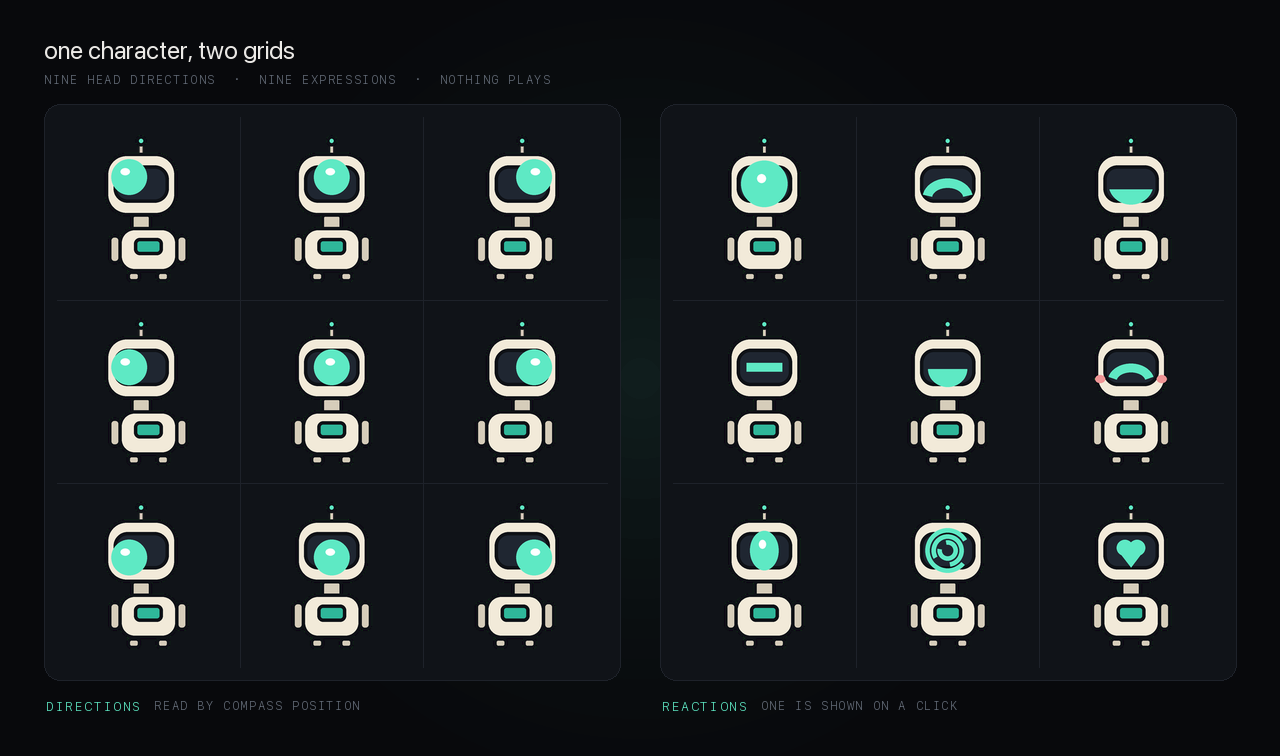
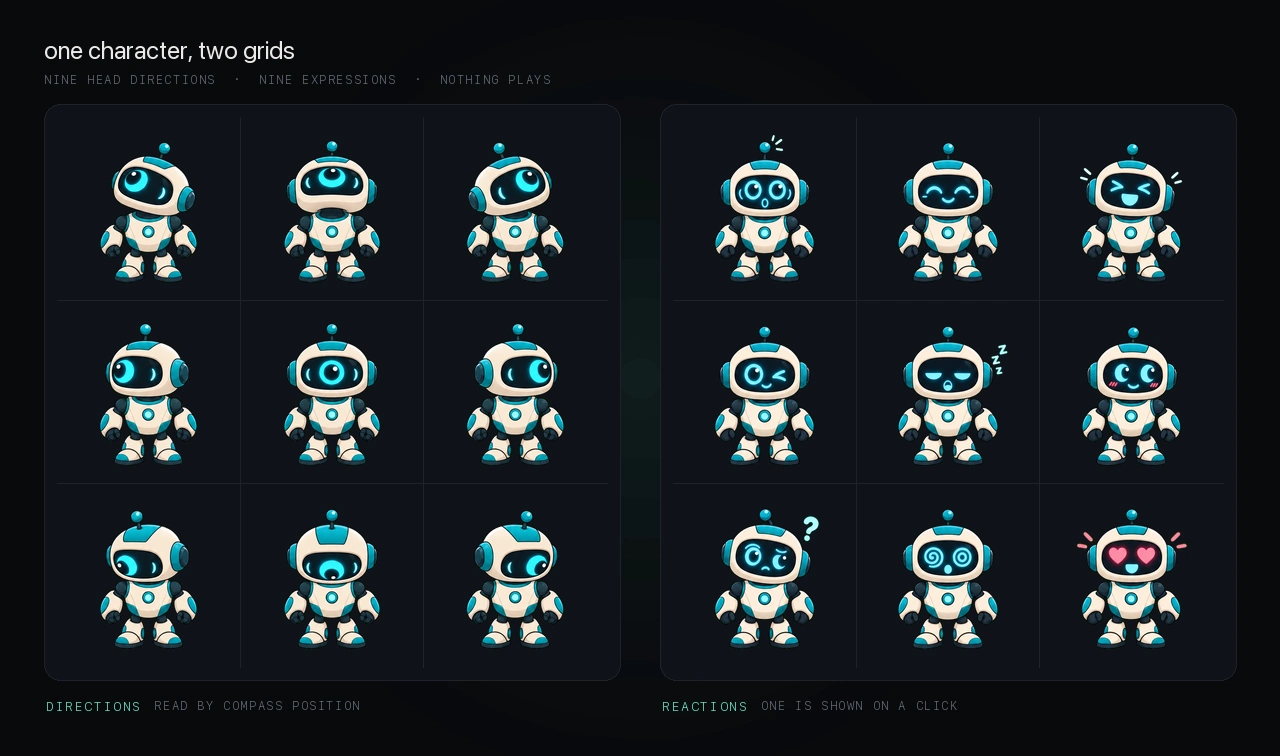
Fill the masthead with six characters the agent drew
The quota came back at 03:12 and the waiter did what it was told: ten
grids, serial, one at a time, then pose-ingest each. Five characters —
fox, cat, frog, ghost, bear — joining the robot.

Every one of them failed strict placement. The generator drifts a body
sideways across a 3x3 far more than it does across a motion loop: 13%,
16%, 38%, 39%, 45%, 52% against a 6% budget. That is the gate doing its
job rather than a defect in the art, and the numbers after the anchor
pass are the argument for it — 0.1% to 0.2%, with the characters 92-98%
consistent in height. The same robot's twelve-frame wave sheet passed
strict on the first attempt at 0.7% drift, which is the contrast worth
keeping: a loop holds still, a pose grid does not.

The README images are rebuilt from that art, and the hero's footer now
reads its measurements out of the run's own report.json rather than the
line I typed. A hardcoded 0.0% had already gone stale — the real run
measured 0.7%, and an image quoting numbers that are not its own is
worse than an image with no numbers.

poses.webp is q96 rather than lossless, reversing what I argued a few
commits ago. That reasoning — a picture of lossless sheets ought to be
lossless — is aesthetic, and it cost 182KB once the art got detailed.
Nobody samples a documentation figure with background-position. docs/ is
484KB for four images, two of them animated.

spike/demo_mascot.py is gone. It drew the placeholder robot, and the
[…]

diff --git a/spike/readme_images.py b/spike/readme_images.py
@@ -5,15 +5,32 @@ normalised frames and the pose pair are loaded back off disk after a real run,
 so an image can only ever show what the pipeline actually produced — if a
 change breaks the output, these break with it rather than papering over it.
 
-Full sequence from an empty directory:
+The art itself comes from the path the project is about: a coding agent draws
+it, mascotify measures and exports it. From an empty directory, with codex or
+gemini on PATH and signed in:
 
-    cd /tmp/build
-    OUT=. python .../spike/demo_mascot.py           # the two pose grids
-    OUT=. python .../spike/demo_mascot.py --wave    # wave sheet + anchor
-    mascotify ingest wave.png --name Wave --rows 3 --cols 4 --fps 12
-    mascotify pose-ingest --job visor \
-      --directions directions.png --reactions reactions.png
-    BUILD=. python .../spike/readme_images.py
+    from mascotify.gen import agent
+    from mascotify.gen.prompts import anchor_prompt, sheet_prompt, \
+        directions_prompt, reactions_prompt
+
+    # 1. the anchor, then 2. a wave sheet and the two pose grids from it
+    agent.generate(anchor_prompt("a friendly rounded robot, one big glowing "
+                                 "visor eye, teal and cream"))
+    agent.generate(sheet_prompt(job, from_reference=True), reference=anchor)
+    agent.generate(directions_prompt(pose_spec), reference=anchor)
+    agent.generate(reactions_prompt(pose_spec), reference=anchor)
+
+    # 3. through the pipeline
+    mascotify ingest robot-wave.png --name Wave --rows 3 --cols 4 --fps 12
+    mascotify pose-ingest --job robot \
+      --directions robot-directions.png --reactions robot-reactions.png
+
+    # 4. then these
+    BUILD=. POSE_JOB=robot python .../spike/readme_images.py
+
+Expect the pose grids to need `--force`: an image model drifts the body
+sideways across a 3x3 far more than it does across a motion loop, and the
+anchor pass is what puts it back. A wave sheet usually passes strict first try.
 
 The web app screenshot and the tracking clip are captured separately, because
 both need the server running:
@@ -23,6 +40,7 @@ both need the server running:
       --window-size=1280,935 --screenshot=ui.png http://127.0.0.1:8795/
     python .../spike/capture_tracking.py            # docs/tracking.webp
 """
+import json
 import os
 from pathlib import Path
 from PIL import Image, ImageDraw, ImageFont
@@ -34,7 +52,8 @@ SANS = "/System/Library/Fonts/SFNS.ttf"
 
 B = Path(os.environ.get("BUILD", "/tmp/build"))
 JOB = B / ".mascotify/wave"
-POSE = B / ".mascotify/poses/visor/export/page-mascot"
+POSE_JOB = os.environ.get("POSE_JOB", "visor")
+POSE = B / f".mascotify/poses/{POSE_JOB}/export/page-mascot"
 DOCS = Path(__file__).resolve().parent.parent / "docs"
 
 
@@ -123,7 +142,13 @@ def hero():
             d.polygon([(ax + 9, ay), (ax + 2, ay - 5), (ax + 2, ay + 5)], fill=INK_3)
 
     d.line([PAD, H - 62, W - PAD, H - 62], fill=LINE, width=1)
-    label(d, (PAD, H - 44), "12 frames  ·  12 fps  ·  seam 0.34x  ·  size drift 0.0%", 12, INK_3)
+    # Read from the run's own report rather than typed in. A hardcoded line
+    # drifts from the truth the moment the art is regenerated, and an image
+    # quoting measurements that are not this run's is worse than no numbers.
+    rep = json.loads((JOB / "report.json").read_text())
+    facts = (f"{rep['frames_found']} frames  ·  {rep['fps']} fps  ·  "
+             f"seam {rep['seam']:.2f}x  ·  size drift {rep['scale_spread']:.1%}")
+    label(d, (PAD, H - 44), facts, 12, INK_3)
     tail = "measured, not guessed"
     label(d, (W - PAD - label_w(d, tail, 12), H - 44), tail, 12, INK_3)
 
@@ -158,8 +183,8 @@ def poses():
     label(d, (PAD, 72), "nine head directions  ·  nine expressions  ·  nothing plays", 12, INK_3)
 
     pairs = [
-        ("directions", "read by compass position", POSE / "visor-directions.webp"),
-        ("reactions", "one is shown on a click", POSE / "visor-reactions.webp"),
+        ("directions", "read by compass position", POSE / f"{POSE_JOB}-directions.webp"),
+        ("reactions", "one is shown on a click", POSE / f"{POSE_JOB}-reactions.webp"),
     ]
     for i, (name, note, path) in enumerate(pairs):
         x = PAD + i * (sheet_w + GAP)
@@ -177,7 +202,11 @@ def poses():
 
         label(d, (x + 2, top + sheet_w + 18), name, 13, ACCENT)
         label(d, (x + 2 + label_w(d, name, 13) + 14, top + sheet_w + 18), note, 12, INK_3)
-    img.save(str(DOCS / "poses.webp"), format="WEBP", lossless=True, method=6)
+    # q96, not lossless. This is a documentation figure — a composite with a
+    # glow and labels, not a sheet anyone samples with background-position — so
+    # the reason the exported sheets are lossless does not apply to a picture
+    # of them, and lossless costs 182KB here for a mean delta of 1.4.
+    img.save(str(DOCS / "poses.webp"), format="WEBP", quality=96, method=6)
     print(str(DOCS / "poses.webp"), img.size)
 
 

diff --git a/spike/capture_tracking.py b/spike/capture_tracking.py
@@ -23,11 +23,12 @@ def cmd(m, **p):
 def js(e): return cmd("Runtime.evaluate", expression=e, returnByValue=True).get("result", {}).get("value")
 
 cmd("Emulation.setDeviceMetricsOverride", width=1280, height=900, deviceScaleFactor=2, mobile=False)
-cmd("Page.navigate", url="http://127.0.0.1:8797/"); time.sleep(2.5)
+cmd("Page.navigate", url="http://127.0.0.1:8765/"); time.sleep(2.5)
 
-box = json.loads(js('''(() => { const b = document.getElementById("demo-mascot").getBoundingClientRect();
+# The whole cast, not one character — the point is that they converge.
+box = json.loads(js('''(() => { const b = document.getElementById("cast").getBoundingClientRect();
   return JSON.stringify({x: b.left, y: b.top, w: b.width, h: b.height}); })()'''))
-PAD, FOOT = 70, 116          # FOOT leaves the caption room rather than clipping it
+PAD, FOOT = 34, 76           # FOOT leaves the caption room rather than clipping it
 clip = {"x": box["x"] - PAD, "y": box["y"] - PAD,
         "width": box["w"] + PAD * 2, "height": box["h"] + PAD + FOOT, "scale": 1}
 cx, cy = box["x"] + box["w"] / 2, box["y"] + box["h"] / 2
@@ -37,14 +38,14 @@ def shot():
     return Image.open(io.BytesIO(base64.b64decode(d["data"]))).convert("RGB")
 
 frames, holds = [], []
-STEPS, R = 16, 300
+STEPS, R = 16, 340
 for i in range(STEPS):                       # a full lap, so every cell is used
     a = -math.pi / 2 + 2 * math.pi * i / STEPS
     js(f'dispatchEvent(new PointerEvent("pointermove",{{clientX:{cx + math.cos(a) * R},clientY:{cy + math.sin(a) * R}}}))')
     time.sleep(0.05)
     frames.append(shot()); holds.append(150)
 
-js('document.getElementById("demo-mascot").click()')   # then the poke
+js('document.querySelectorAll(".demo-mascot")[4].click()')   # then poke one of them
 for _ in range(4):
     time.sleep(0.12)
     frames.append(shot()); holds.append(150)
@@ -53,8 +54,8 @@ frames.append(shot()); holds.append(700)
 
 # Captured at 2x for clean edges, shipped at half that — it renders small in a
 # README and the weight is nineteen frames, not one.
-w = 520
+w = 620
 frames = [f.resize((w, round(w * f.height / f.width)), Image.LANCZOS) for f in frames]
-frames[0].save(Path("/tmp/track/tracking.webp"), save_all=True, append_images=frames[1:],
+frames[0].save(Path("/tmp/tracking.webp"), save_all=True, append_images=frames[1:],
                duration=holds, loop=0, quality=82, method=6)
 print("frames:", len(frames), "size:", frames[0].size)

diff --git a/README.md b/README.md
@@ -30,17 +30,24 @@ uv tool install 'mascotify[web] @ git+https://github.com/dige04/mascotify.git'
 mascotify serve            # http://127.0.0.1:8765
 ```
 
-![The mascotify web app: a dark single-page tool with a teal robot mascot in
-the masthead that follows the cursor, above the first step of the
-pipeline](docs/webapp.webp)
+![The mascotify web app: a dark single-page tool with six mascots in the
+masthead — a bear, a black cat, a fox, a frog, a ghost and a robot — all
+watching the cursor, above the first step of the pipeline](docs/webapp.webp)
 
 Describe a mascot, pick a motion, get an animated preview and every platform
 bundle as one download.
 
-The mascot in that masthead is not a mockup, and it is not a still either —
-see it moving [below](#a-mascot-that-follows-the-cursor). `spike/demo_mascot.py`
-draws the two grids, `pose-ingest` validates and exports them, and the app loads
-the `.webp` files it wrote — the same path any character goes through.
+Those six are not a mockup, and not a still either — see them moving
+[below](#a-mascot-that-follows-the-cursor). Each was drawn by a coding agent
+from `anchor_prompt`, turned into two 3x3 grids from that anchor, then keyed,
+normalised and exported by `pose-ingest`. The app reads them from your own
+`.mascotify/poses/`, so the masthead fills up with the characters *you* made; a
+fresh project falls back to the one that ships.
+
+Five of the six needed `--force`: the generator drifted the body 13% to 52%
+sideways across the cells, past the 6% budget. That is the gate working as
+designed rather than a defect — the anchor pass corrects it, and the budget
+exists to say it had to. After correction all six sit within 0.2%.
 
 **It needs no key either.** The default provider is `agent`: mascotify shells
 out to the coding agent you already have signed in — Codex, or Gemini CLI — and
@@ -116,16 +123,16 @@ Not every mascot animates. If what you want is a character that watches the
 pointer and reacts to a click, that is not a loop — it is two 3x3 grids of
 poses, nine head directions and nine expressions, with nothing playing.
 
-![Two 3x3 grids of the same robot: on the left its head and eye turn to each
-of nine compass directions, on the right nine expressions from surprised to
-sleepy to heart-eyed](docs/poses.webp)
+![Two 3x3 grids of the same robot: on the left its eye turns to each of nine
+compass directions, on the right nine expressions from startled to sleepy to
+heart-eyed](docs/poses.webp)
 
-Which together do this — the masthead mascot from the screenshot above,
-answering a cursor walked in a circle around it, then poked:
+Which together do this — the six from the screenshot above, answering a cursor
+walked in a circle around them, then one of them poked:
 
-<img src="docs/tracking.webp" width="300"
-     alt="The robot's eye tracking a cursor around a full circle, then its
-          expression changing when clicked">
+<img src="docs/tracking.webp" width="420"
+     alt="Six mascots turning together to follow a cursor around a full circle,
+          then one changing expression when it is clicked">
 
 ```bash
 mascotify pose-plan --ref ref.png --job fox     # prompts for both grids
